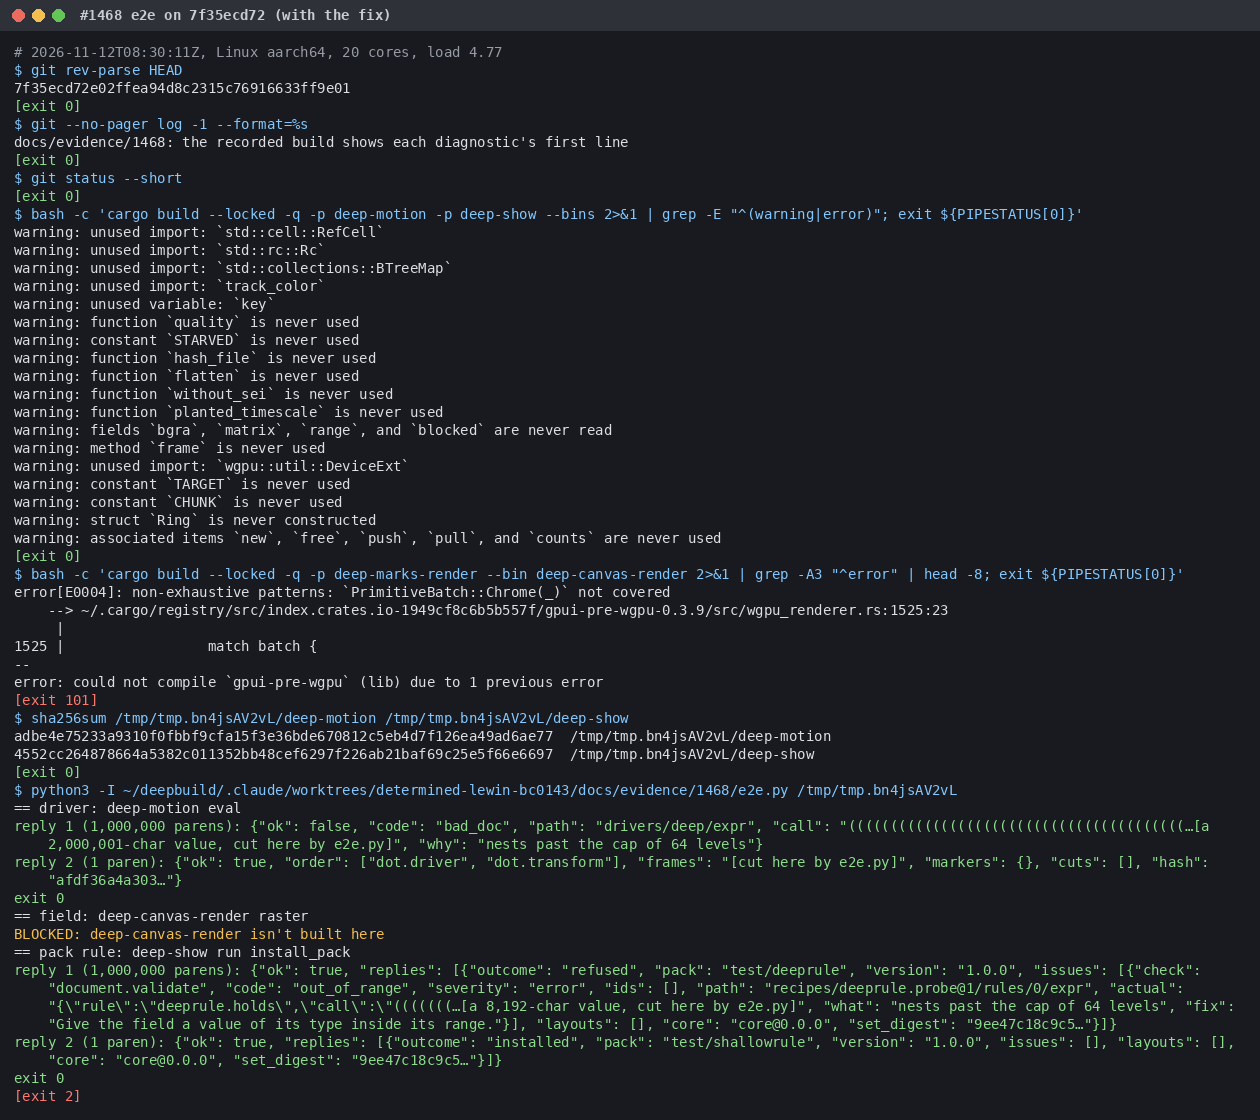
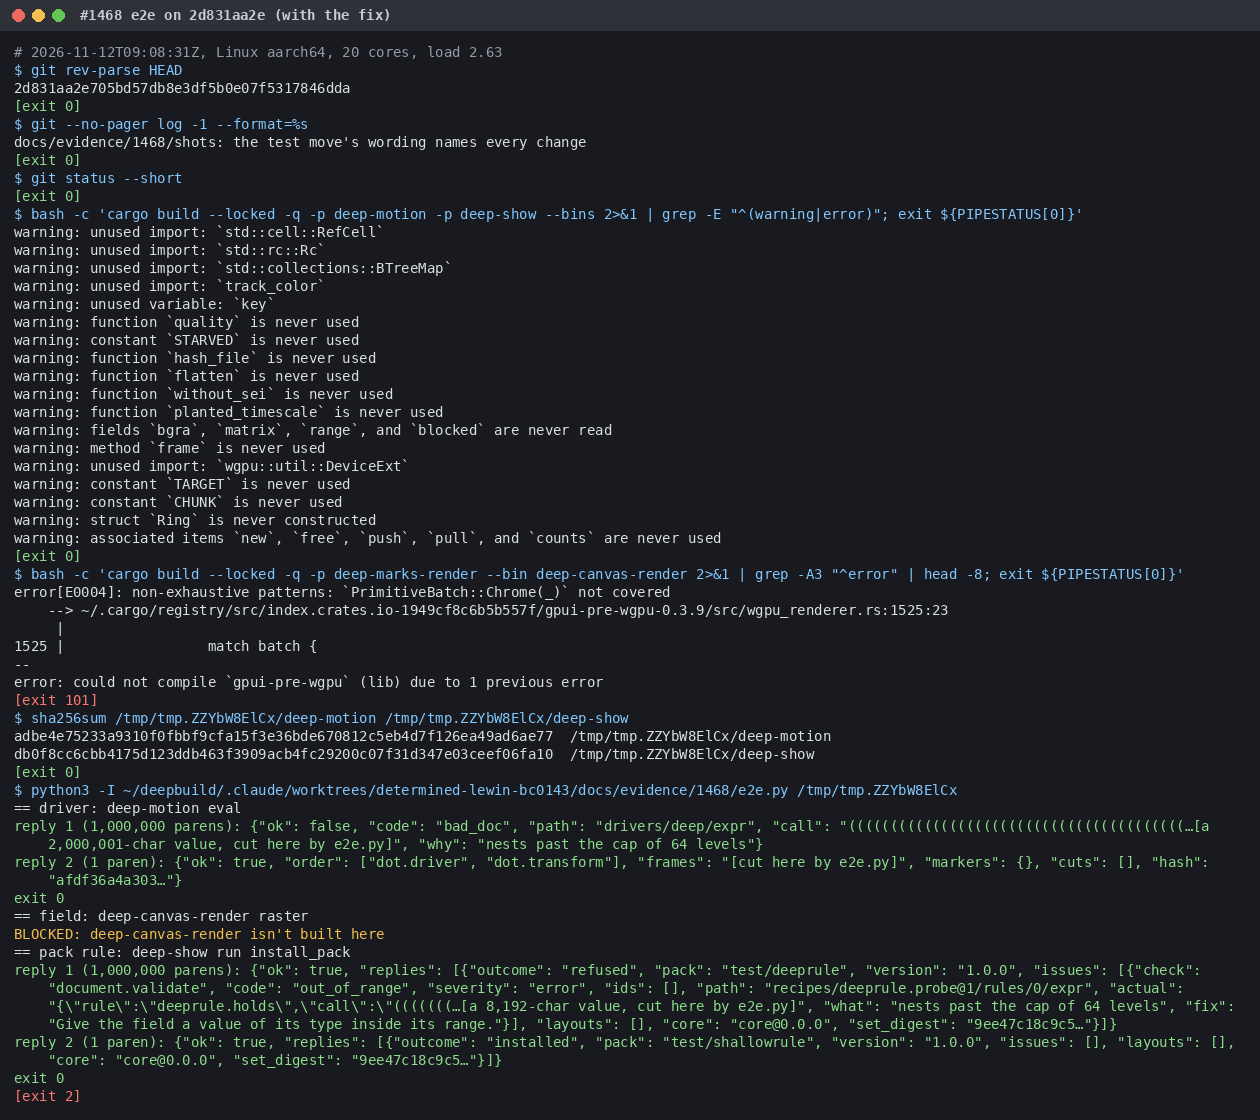
docs/evidence/1468/shots: the fix's e2e and suite recorded again at the PR head 2d831aa2e

diff --git a/docs/evidence/1468/shots/README.md b/docs/evidence/1468/shots/README.md
@@ -2,26 +2,26 @@
 
 Each picture shows a terminal session that `script` recorded byte for byte while it ran [`../shots.sh`](../shots.sh), then redacted as below. Each was drawn from the committed recording next to it by [`../term_png.py`](../term_png.py), with this machine's DejaVu Sans Mono and Pillow. Redrawing one with its title below gives the same pixels:
 - `e2e-base`: `#1468 e2e on main 1abbcf086, the PR's merge base (no fix)`
-- `e2e-fix`: `#1468 e2e on 7f35ecd72 (with the fix)`
+- `e2e-fix`: `#1468 e2e on 2d831aa2e (with the fix)`
 - `acceptance-base`: `#1468 blind acceptance suite on main 1abbcf086, the PR's merge base (no fix)`
-- `acceptance-fix`: `#1468 blind acceptance suite on 7f35ecd72 (with the fix)`
+- `acceptance-fix`: `#1468 blind acceptance suite on 2d831aa2e (with the fix)`
 
-- **What's recorded.** `shots.sh` prints each command before it runs it, and its exit code after. Each picture's header prints the commit and `git status` of the tree it ran in. The base has no copy of these scripts, so `shots.sh` and `e2e.py` came from the fix tree for both runs, as each e2e picture's `$ python3` line shows for `e2e.py`.
+- **What's recorded.** `shots.sh` prints each command before it runs it, and its exit code after. Each picture's header prints the commit and `git status` of the tree it ran in. The base has no copy of these scripts, so `shots.sh` and `e2e.py` came from the fix tree for both runs, as each e2e picture's `$ python3` line shows for `e2e.py`. The base runs, earlier, used the fix tree's `e2e.py` as of `7f35ecd72`, which differs from `2d831aa2e`'s only in its line-3 comment.
 - **The logs.** The `.typescript.txt` next to each picture is that recording. In it, the home folder is written `~` and the scratch folder `<scratchpad>`.
-- **Load.** A wait loop outside `shots.sh` started each recording only once the one-minute load was under 6 on this 20-core Linux aarch64 machine. Each header prints the load at the start, and the recordings ran one after another.
+- **Load.** A wait loop outside `shots.sh` started each recording only once the one-minute load was under 6 on this 20-core Linux aarch64 machine. Each header prints the load at the start, and the recordings ran one after another: the base pair first, then the fix pair later at the head.
 
 **The two trees:**
 - **Base:** main `1abbcf086`, the PR's merge base, in a separate clone.
   - The suite needs `tests/acceptance/1468/` and its `[[test]]` entry in `crates/deep-motion/Cargo.toml`. They are the only source changes there, and each base picture's `git status` lists them.
   - `target` is a link to that clone's build folder. Each tree runs its own build: the test binary has the same name in both, but they are different files in different folders.
-- **Fix:** commit `7f35ecd72`, as printed, with a clean `git status`. Later commits change `docs/evidence/1468/` (these pictures, their recordings and captions, and one comment in `e2e.py`). One also moves the two parsers' unit tests, unchanged but for indentation, rustfmt reflow, a module doc line and one `include_str!` path, into `expr/tests.rs` and `document/packs/tests.rs`, and lowers their files' size ceilings; the code under test is the same.
+- **Fix:** commit `2d831aa2e`, as printed, with a clean `git status`. It is the PR head these pictures were taken for. The commit that adds them changes only `docs/evidence/1468/shots/`.
 
 | Picture | What it shows |
 |---|---|
 | [`e2e-base.png`](e2e-base.png) | **Requests.** `deep-motion` and `deep-show` each get two documents written to one process (`deep-canvas-render` isn't built; see below): one holding 1,000,000 parens, then one holding a single paren. **Result.** `deep-motion eval` (driver) and `deep-show run` (pack rule) both die by signal 6 (stack overflow), and neither reply comes. `e2e.py` then exits 1. |
-| [`e2e-fix.png`](e2e-fix.png) | **Requests.** The same requests, on binaries built at `7f35ecd72`. **Refusals.** The driver is refused at `drivers/deep/expr`, and the pack rule at `recipes/deeprule.probe@1/rules/0/expr`; each "nests past the cap of 64 levels". **After.** The same process then answers the second document: the driver with `"ok": true`, the pack, a second one named `shallowrule` so its reply reads apart from the first, with `"outcome": "installed"`. `deep-motion` and `deep-show` each exit 0. `e2e.py` exits 2, because the field binary isn't built (below). `deep-show run` puts each call's outcome inside an envelope whose own `"ok": true` means the line was read. |
+| [`e2e-fix.png`](e2e-fix.png) | **Requests.** The same requests, on binaries built at `2d831aa2e`. **Refusals.** The driver is refused at `drivers/deep/expr`, and the pack rule at `recipes/deeprule.probe@1/rules/0/expr`; each "nests past the cap of 64 levels". **After.** The same process then answers the second document: the driver with `"ok": true`, the pack, a second one named `shallowrule` so its reply reads apart from the first, with `"outcome": "installed"`. `deep-motion` and `deep-show` each exit 0. `e2e.py` exits 2, because the field binary isn't built (below). `deep-show run` puts each call's outcome inside an envelope whose own `"ok": true` means the line was read. |
 | [`acceptance-base.png`](acceptance-base.png) | **The suite.** The blind suite (`tests/acceptance/1468/`) on the base: 4 pass, 10 fail, 1 ignored. **Failures.** In every failing AC1, AC3 and AC4 test the process under test dies by signal 6: the suite's child, or `deep-motion eval` for the driver. AC2's depth-65 cases all parse. Each AC1 and AC3 failure prints its line twice: once as the test prints it, once as its panic message. **Passes.** The 4 that pass are the two planted parsers, depth 64, and the shallow control. **Planted runs.** Two more commands run the planted parser (no cap) alone in the suite's child, on 1,000,000 `(` and on the 10,000-term tower; each dies by signal 6. |
-| [`acceptance-fix.png`](acceptance-fix.png) | **The suite.** 14 pass, 1 ignored. **Times.** Each AC1 and AC3 line shows the child's refusal, "nests past the cap of 64 levels", and its `ms`: 0.06 to 2.6 ms. That figure is timed inside the child, from the parser call to the dropped result. It leaves out starting the process and building the string. **Planted runs.** The planted parser still dies by signal 6. That death is what the planted tests check, and the red `[exit 101]` under each of those runs is the expected result. |
+| [`acceptance-fix.png`](acceptance-fix.png) | **The suite.** 14 pass, 1 ignored. **Times.** Each AC1 and AC3 line shows the child's refusal, "nests past the cap of 64 levels", and its `ms`: 0.10 to 2.3 ms. That figure is timed inside the child, from the parser call to the dropped result. It leaves out starting the process and building the string. **Planted runs.** The planted parser still dies by signal 6. That death is what the planted tests check, and the red `[exit 101]` under each of those runs is the expected result. |
 
 The ignored test, `child`, is the suite's child process. The other tests start it themselves with `DEEP_1468_CHILD` set (`depth.rs`), and alone it does nothing.
 
@@ -42,5 +42,6 @@ The ignored test, `child`, is the suite's child process. The other tests start i
 - **Checking the hashes.** The sha256 lines hash the copies the e2e ran: each binary is copied right after its build into a fresh `mktemp` folder.
   - A later `cargo test` relinks `target/debug/deep-motion` to a build with the test's features.
   - The hashed binary stays in `target/debug/deps/` under its own name.
-  - The hashes can be checked only on this machine.
+  - The hashes can be checked only on this machine, and only the fix's: the base build was deleted afterwards to free disk.
+  - `deep-show` embeds `DEEP_SOURCE_DIGEST`, a hash over the source files of every crate it depends on (`crates/deep-show/build.rs`), so even a change to test files gives it a new hash.
 - **Colours.** `term_png.py` colours each line by matching words in it, not by the test's verdict.
